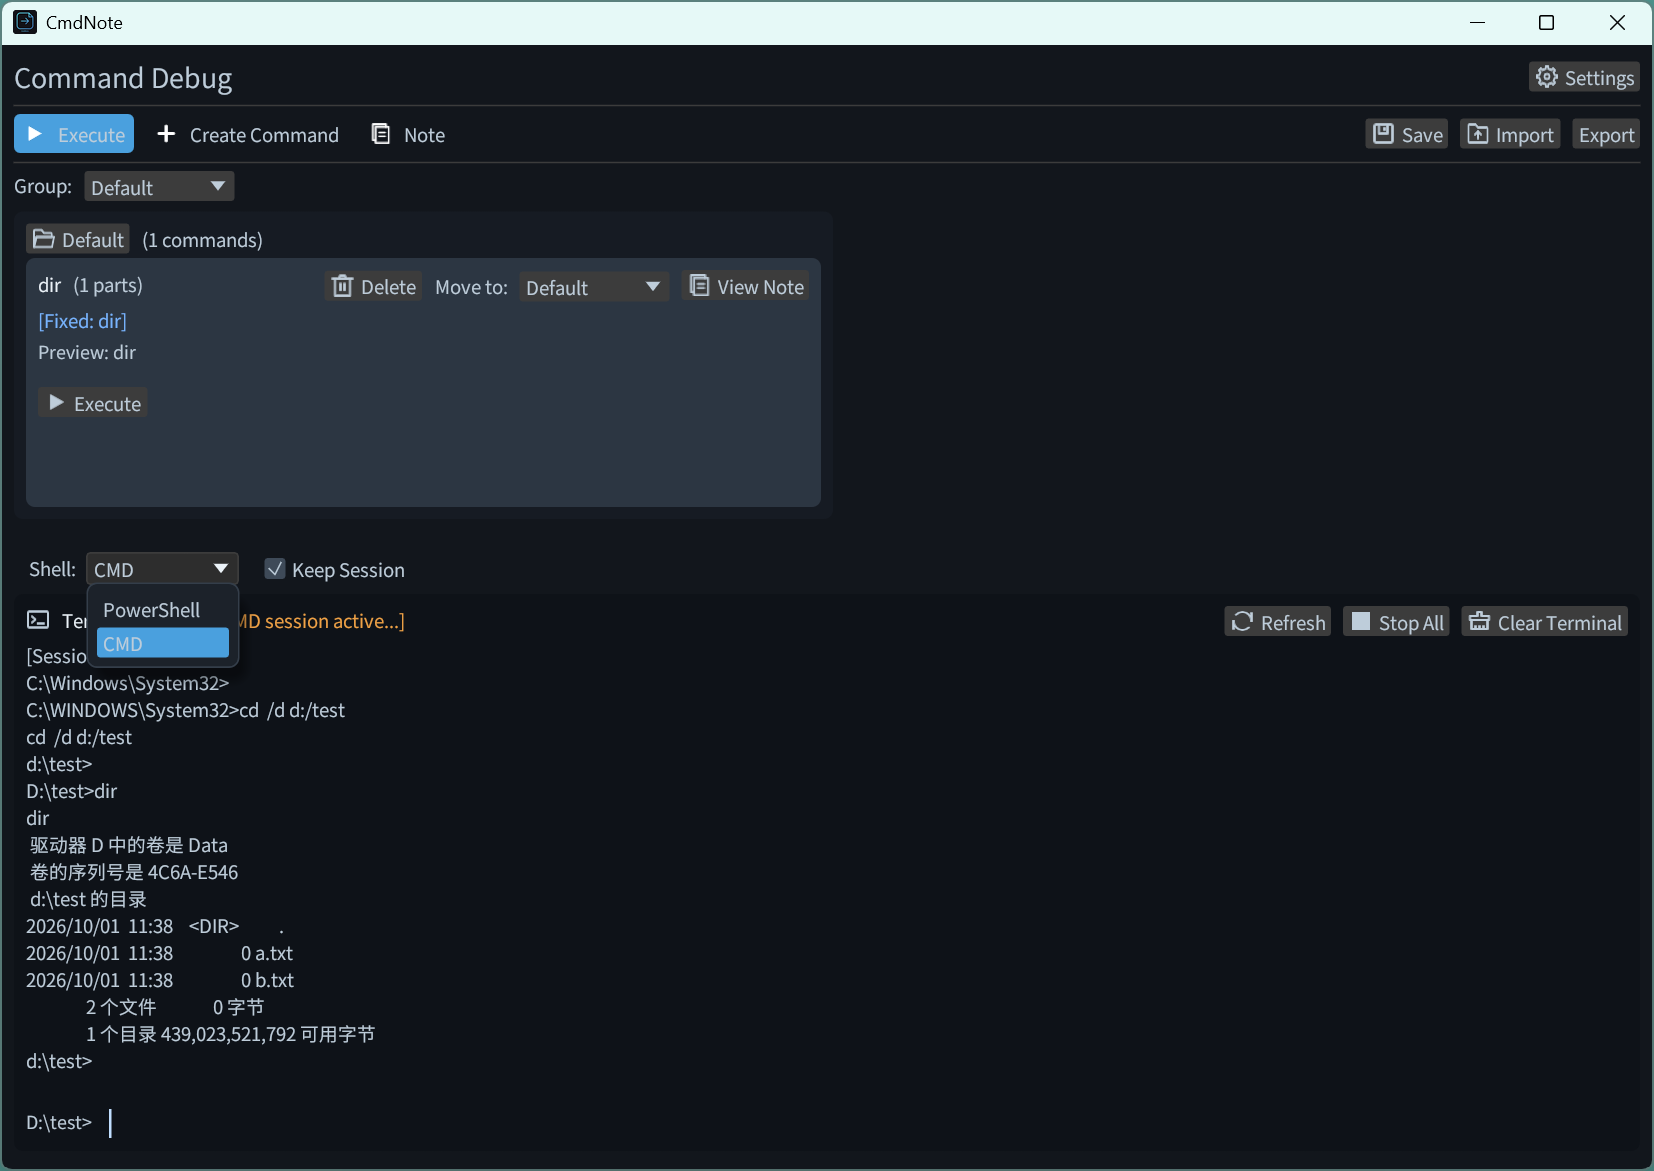
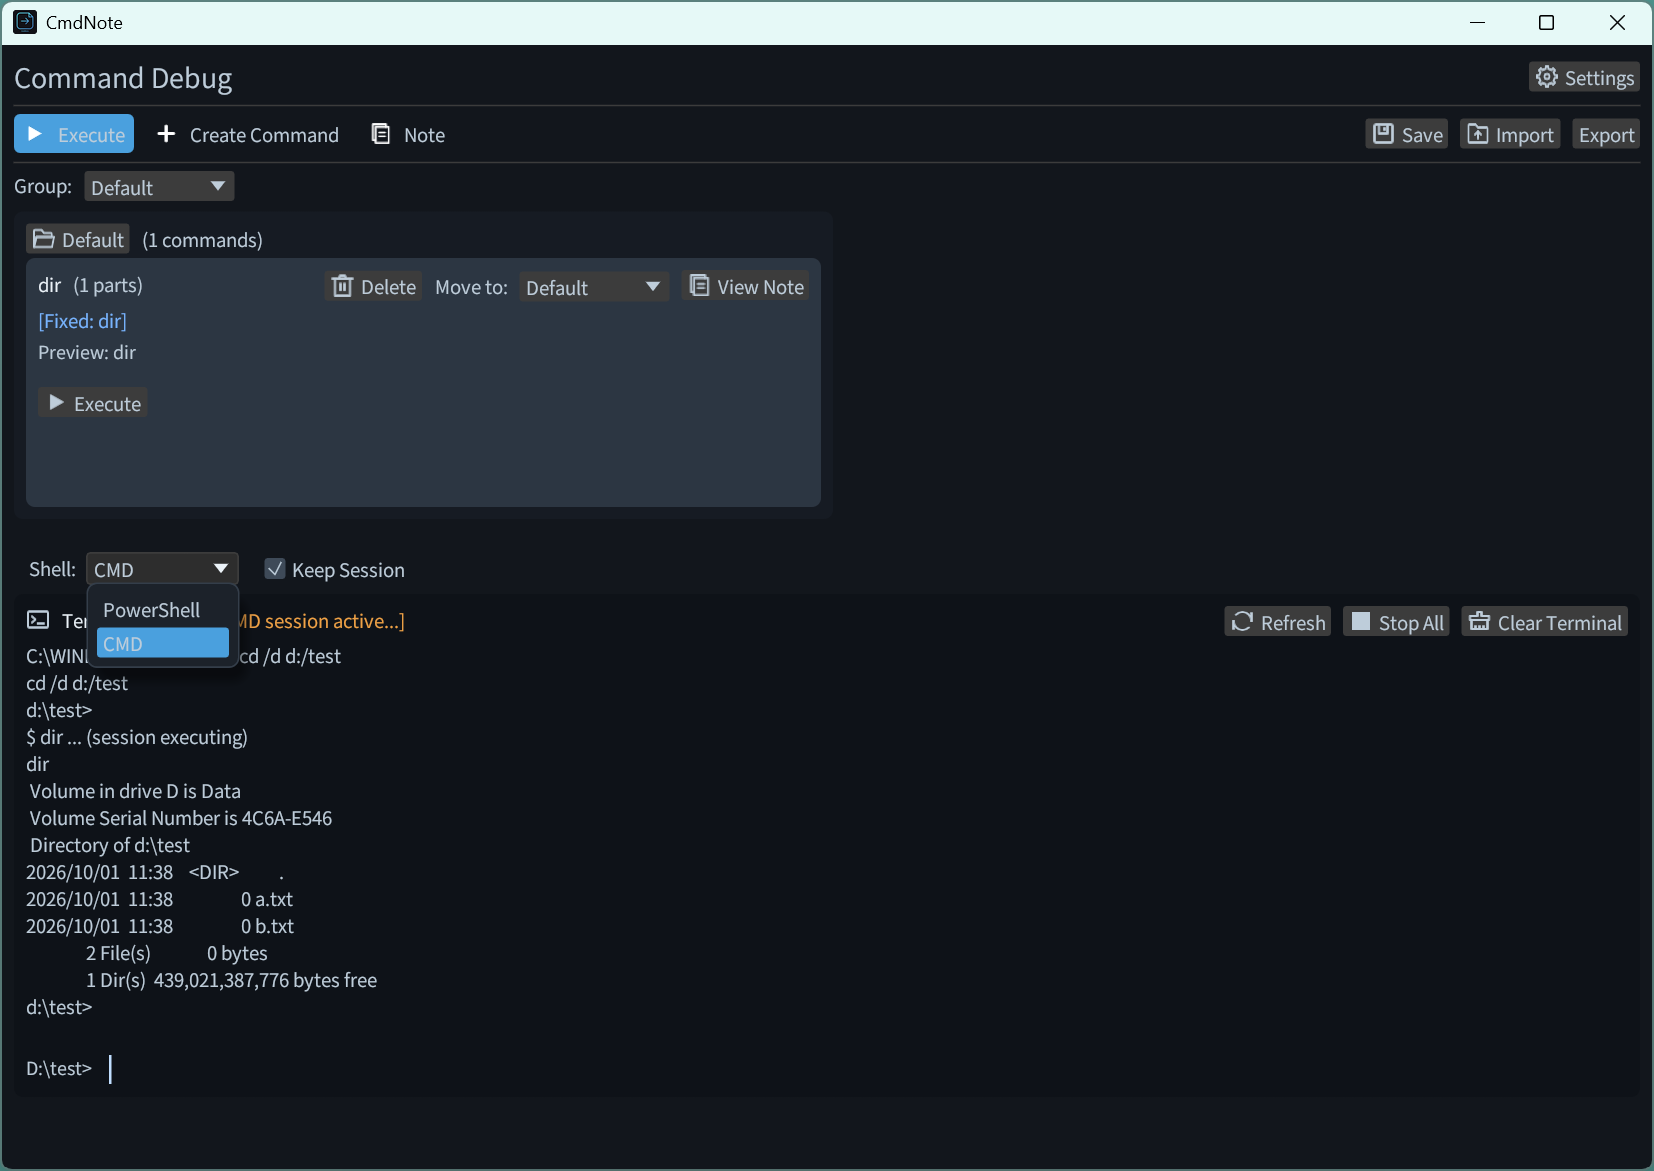
modifier content

Changed region(s): [[0.0, 0.5534, 0.2158, 0.9223], [0.0308, 0.953, 0.0617, 0.9838]]

diff --git a/js/i18n.js b/js/i18n.js
@@ -28,13 +28,13 @@ const translations = {
         step_1_desc: "在创建页面填写命令参数，可设置固定部分、参数、目录选择和键值输入。也可以在 Auto Create 面板输入一句中英文需求描述，点击\"AI 生成指令\"自动生成命令行，再用\"自动拆分\"功能按参数顺序一键拆分。",
         step_1_placeholder: "命令创建页面截图",
         step_2_title: "第二步：编辑命令",
-        step_2_desc: "点击指令右侧的编辑按钮进入编辑状态，即可对该指令进行修改、删除和备注。",
-        step_3_title: "第三步：导出JSON文件",
-        step_3_desc: "通过导出按钮可将单条指令、多条指令或整个分组导出为 JSON 文件，导出格式如下：",
-        step_4_title: "第四步：执行命令",
-        step_4_desc: "可以选择在 CMD 或 PowerShell 中执行命令。勾选\"保持会话\"后，可在会话内直接手动输入命令连续执行，不勾选则执行后自动退出。点击\"全部停止\"可以终止正在执行的命令并结束会话。",
-        step_5_title: "第五步：指令历史 History",
-        step_5_desc: "在\"保持会话\"模式下，手动输入的指令会自动记录到指令历史列表。点选历史条目即可复制该指令，也可将其快速拆分为结构化指令创建到指令集中。",
+        step_2_desc: "点击右侧的编辑按钮进入编辑状态，即可对所有指令进行编辑、删除和备注。",
+        step_3_title: "第三步：执行命令",
+        step_3_desc: "可以选择在 CMD 或 PowerShell 中执行命令。勾选\"保持会话\"后，命令将在同一会话中连续执行，并支持在会话内手动输入命令；不勾选则执行后自动退出。点击\"全部停止\"可以终止正在执行的命令并结束会话。",
+        step_4_title: "第四步：指令历史 History",
+        step_4_desc: "在\"保持会话\"模式下，手动输入的指令会自动记录到指令历史列表。点选历史条目即可复制该指令，也可将其快速拆分为结构化指令创建到指令集中。",
+        step_5_title: "第五步：导出JSON文件",
+        step_5_desc: "通过导出按钮可将单条指令、多条指令或整个分组导出为 JSON 文件，导出格式如下：",
         step_6_title: "第六步：编辑模板",
         step_6_desc: "点击下方按钮跳转到模板库。您可以修改 JSON 内容并下载更新后的版本。",
         step_6_tip: "温馨提示：模板库的示例数据仅供参考，未经人工核验，可能存在无法执行的错误。如存在错误，请在执行前查看预览指令是否正确并修正错误参数。",
@@ -124,13 +124,13 @@ const translations = {
         step_1_desc: "Fill in the command parameters in the creation page: fixed parts, parameters, directory selections and key-value inputs. You can also describe your need in one Chinese or English sentence in the Auto Create panel, generate the command line with AI, then split it in argument order with Auto Create in one click.",
         step_1_placeholder: "Command Creation Page Screenshot",
         step_2_title: "Step 2: Edit Command",
-        step_2_desc: "Click the edit button on the right side of a command to enter editing mode, where you can modify, delete the command or edit its note.",
-        step_3_title: "Step 3: Export JSON File",
-        step_3_desc: "Use the export button to export a single command, multiple commands or a whole group as a JSON file. The exported format is shown below:",
-        step_4_title: "Step 4: Execute Commands",
-        step_4_desc: "Switch between CMD and PowerShell to run commands. Check \"Keep Session\" to stay in the session and type commands directly in the terminal; leave it unchecked to exit automatically after execution. Click \"Stop All\" to terminate running commands and end the session.",
-        step_5_title: "Step 5: Command History",
-        step_5_desc: "In \"Keep Session\" mode, commands you type manually are automatically recorded into the history list. Click a history entry to copy the command, or send it to Auto Create to quickly split it into a structured command.",
+        step_2_desc: "Click the edit button on the right to enter editing mode, where you can edit, delete or annotate all commands.",
+        step_3_title: "Step 3: Execute Commands",
+        step_3_desc: "Switch between CMD and PowerShell to run commands. Check \"Keep Session\" to run commands continuously in the same session, with manual command input supported; leave it unchecked to exit automatically after execution. Click \"Stop All\" to terminate running commands and end the session.",
+        step_4_title: "Step 4: Command History",
+        step_4_desc: "In \"Keep Session\" mode, commands you type manually are automatically recorded into the history list. Click a history entry to copy the command, or send it to Auto Create to quickly split it into a structured command.",
+        step_5_title: "Step 5: Export JSON File",
+        step_5_desc: "Use the export button to export a single command, multiple commands or a whole group as a JSON file. The exported format is shown below:",
         step_6_title: "Step 6: Edit Templates",
         step_6_desc: "Click the button below to jump to the template library. You can modify the JSON content and download the updated version.",
         step_6_tip: "Note: The sample data in the template library is for reference only and has not been manually verified. There may be errors that prevent execution. If errors exist, please check the preview command for correctness and fix any incorrect parameters before execution.",

diff --git a/index.html b/index.html
@@ -129,8 +129,8 @@
 
                 <div class="usage-step">
                     <h3 data-i18n="step_2_title">Step 2: Edit Command</h3>
-                    <p data-i18n="step_2_desc">Click the edit button on the right side of a command to enter editing
-                        mode, where you can modify, delete the command or edit its note.</p>
+                    <p data-i18n="step_2_desc">Click the edit button on the right to enter editing mode, where you
+                        can edit, delete or annotate all commands.</p>
                     <div class="carousel" id="step2Carousel">
                         <div class="carousel-inner">
                             <div class="carousel-item active">
@@ -141,10 +141,39 @@
                 </div>
 
                 <div class="usage-step">
-                    <h3 data-i18n="step_3_title">Step 3: Export JSON File</h3>
-                    <p data-i18n="step_3_desc">Use the export button to export a single command, multiple commands or a
-                        whole group as a JSON file. The exported format is shown below:</p>
+                    <h3 data-i18n="step_3_title">Step 3: Execute Commands</h3>
+                    <p data-i18n="step_3_desc">Switch between CMD and PowerShell to run commands. Check "Keep
+                        Session" to run commands continuously in the same session, with manual command input
+                        supported; leave it unchecked to exit automatically after execution. Click "Stop All" to
+                        terminate running commands and end the session.</p>
                     <div class="carousel" id="step3Carousel">
+                        <div class="carousel-inner">
+                            <div class="carousel-item active">
+                                <img src="exec.png" alt="Command Execution Page">
+                            </div>
+                        </div>
+                    </div>
+                </div>
+
+                <div class="usage-step">
+                    <h3 data-i18n="step_4_title">Step 4: Command History</h3>
+                    <p data-i18n="step_4_desc">In "Keep Session" mode, commands you type manually are recorded into
+                        the history list. Click a history entry to copy the command, or send it to Auto Create to split
+                        it into a structured command quickly.</p>
+                    <div class="carousel" id="step4Carousel">
+                        <div class="carousel-inner">
+                            <div class="carousel-item active">
+                                <img src="history.png" alt="Command History Page">
+                            </div>
+                        </div>
+                    </div>
+                </div>
+
+                <div class="usage-step">
+                    <h3 data-i18n="step_5_title">Step 5: Export JSON File</h3>
+                    <p data-i18n="step_5_desc">Use the export button to export a single command, multiple commands or a
+                        whole group as a JSON file. The exported format is shown below:</p>
+                    <div class="carousel" id="step5Carousel">
                         <div class="carousel-inner">
                             <div class="carousel-item active">
                                 <img src="export.png" alt="Command Export Page">
@@ -192,35 +221,6 @@
   ],
   "cmd_next_id": 1
 }</code></pre>
-                    </div>
-                </div>
-
-                <div class="usage-step">
-                    <h3 data-i18n="step_4_title">Step 4: Execute Commands</h3>
-                    <p data-i18n="step_4_desc">Switch between CMD and PowerShell to run commands. Check "Keep Session"
-                        to stay in the session and type commands directly in the terminal; unchecked, the window exits
-                        automatically after execution. Click "Stop All" to terminate running commands and end the
-                        session.</p>
-                    <div class="carousel" id="step4Carousel">
-                        <div class="carousel-inner">
-                            <div class="carousel-item active">
-                                <img src="exec.png" alt="Command Execution Page">
-                            </div>
-                        </div>
-                    </div>
-                </div>
-
-                <div class="usage-step">
-                    <h3 data-i18n="step_5_title">Step 5: Command History</h3>
-                    <p data-i18n="step_5_desc">In "Keep Session" mode, commands you type manually are recorded into
-                        the history list. Click a history entry to copy the command, or send it to Auto Create to split
-                        it into a structured command quickly.</p>
-                    <div class="carousel" id="step5Carousel">
-                        <div class="carousel-inner">
-                            <div class="carousel-item active">
-                                <img src="history.png" alt="Command History Page">
-                            </div>
-                        </div>
                     </div>
                 </div>
 
